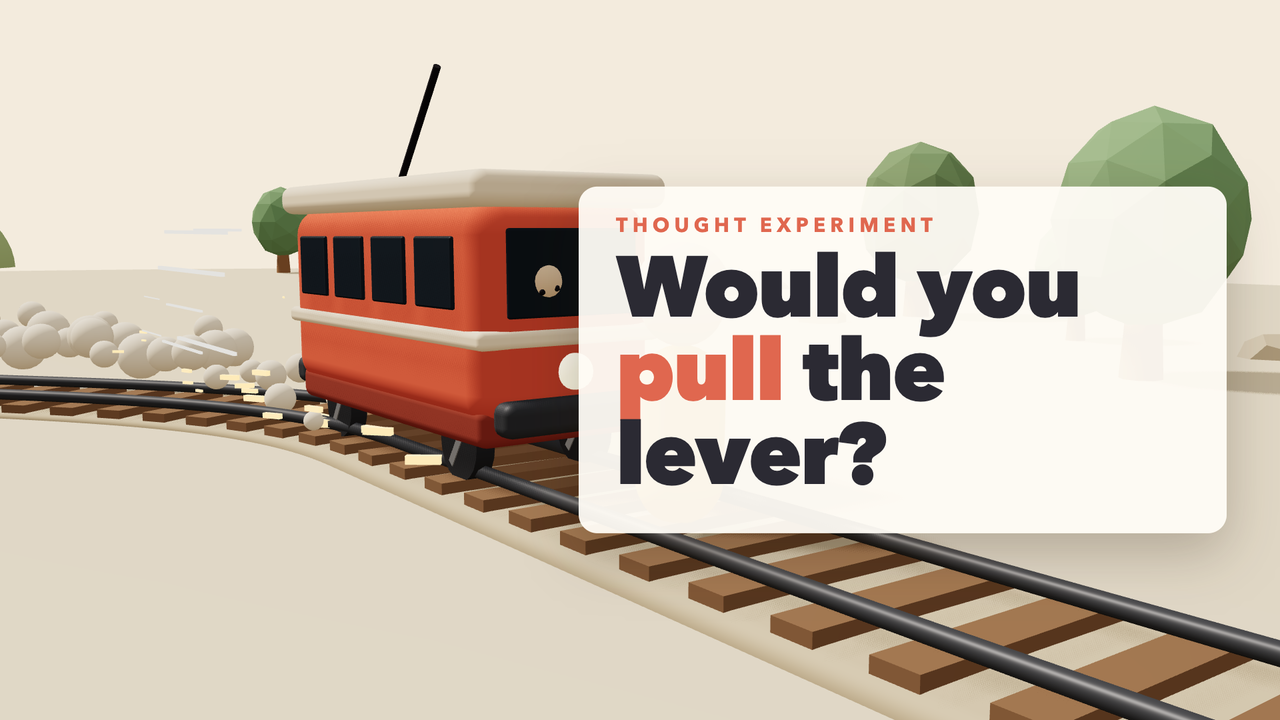
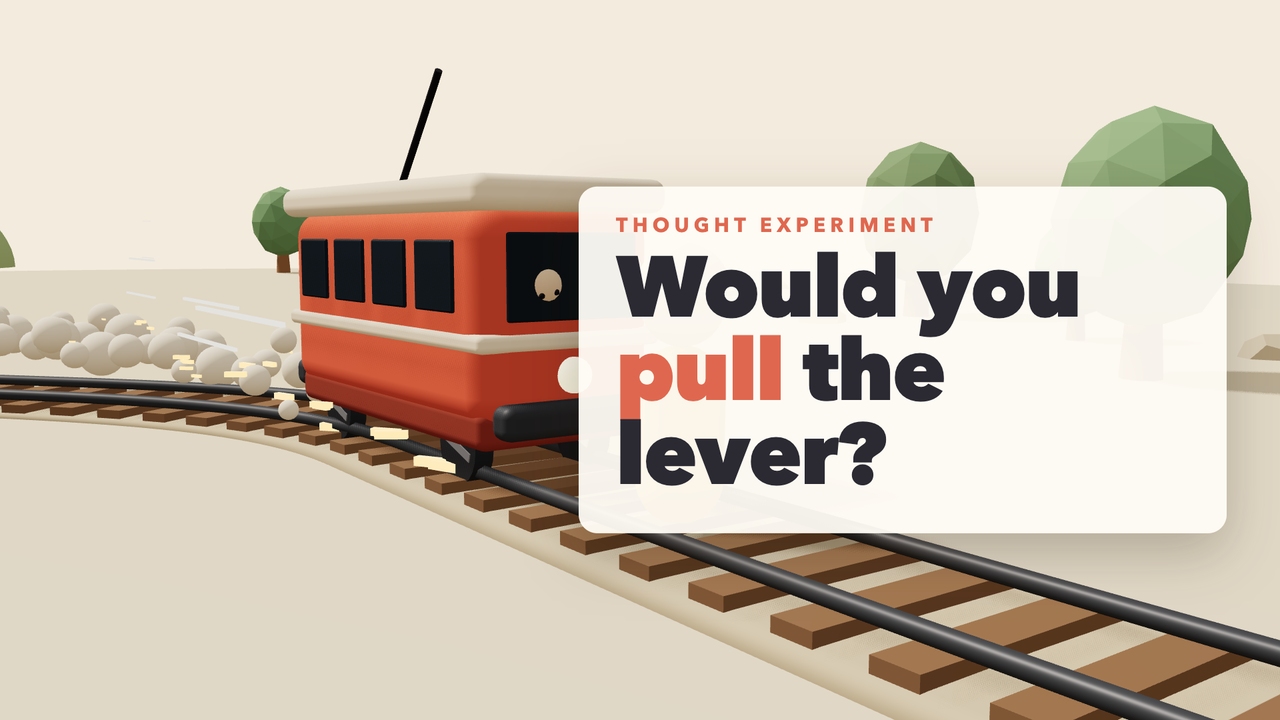
Voice fixes, caption formats, and packaging
- Kokoro pronunciation fixes via pronounce: 'Iff you' (phantom /s/ before sentence-initial 'If'),
  'in its parth' (hissing final /θ/ heard as 'paths')
- Landscape renders clean (upload the .vtt to YouTube); vertical burns in large, short captions
- Caption splitter can no longer recurse on a trailing comma
- Guide and README document caption policy and known voice artifacts

diff --git a/engine/core.js b/engine/core.js
@@ -550,7 +550,7 @@ export function createUI(root, stage) {
 }
 
 // Captions: split narration into readable chunks, timed by character share within each segment.
-export function captionAt(timeline, t) {
+export function captionAt(timeline, t, max = 96) {
   for (const s of timeline.data.segments) {
     if (t < s.start || t > s.end + 0.35) continue;
     // voiced parts (between [[markers]]) carry exact times; otherwise the whole segment is one span
@@ -558,7 +558,7 @@ export function captionAt(timeline, t) {
     for (let i = 0; i < spans.length; i++) {
       const sp = spans[i], next = spans[i + 1];
       if (next && t >= next.start) continue;
-      const chunks = splitCaption(sp.text);
+      const chunks = splitCaption(sp.text, max);
       const total = chunks.reduce((a, c) => a + c.length, 0);
       let acc = sp.start;
       for (const c of chunks) {
@@ -579,10 +579,12 @@ function splitCaption(text, max = 96, min = 28) {
   const out = [];
   const split = (s) => {
     if (s.length <= max) return [s];
-    const mid = s.length / 2;
+    // break at the punctuation (else the space) nearest the middle, never at either end, so both halves shrink
+    const mid = s.length / 2, inner = (i) => i > 0 && i < s.length - 2;
     let best = -1;
-    for (let i = 0; i < s.length; i++) if (/[,;—:]/.test(s[i]) && (best < 0 || Math.abs(i - mid) < Math.abs(best - mid))) best = i;
-    if (best < 0) best = s.lastIndexOf(' ', mid);
+    for (let i = 0; i < s.length; i++) if (/[,;—:]/.test(s[i]) && inner(i) && (best < 0 || Math.abs(i - mid) < Math.abs(best - mid))) best = i;
+    if (best < 0) for (let i = 0; i < s.length; i++) if (s[i] === ' ' && inner(i) && (best < 0 || Math.abs(i - mid) < Math.abs(best - mid))) best = i;
+    if (best < 0) return [s];
     return [...split(s.slice(0, best + 1).trim()), ...split(s.slice(best + 1).trim())];
   };
   for (const s of sentences) out.push(...split(s));

diff --git a/engine/style.css b/engine/style.css
@@ -99,8 +99,8 @@ html, body { margin: 0; background: #1d1c21; overflow: hidden; }
 .vertical .chip { padding: 8px 14px; }
 .vertical .chip small { font-size: 12px; }
 .vertical .card .foot { font-size: 26px; }
-.vertical .caption { bottom: 360px; width: 940px; }
-.vertical .caption span { font-size: 42px; }
+.vertical .caption { bottom: 380px; width: 960px; }
+.vertical .caption span { font-size: 62px; font-weight: 700; line-height: 1.45; padding: 8px 22px; border-radius: 12px; }
 .vertical .note { right: auto; left: 50%; top: auto; bottom: 470px; width: 820px; margin-left: -410px; box-sizing: border-box; }
 .vertical .label { font-size: 27px; padding: 9px 18px; }
 .vertical .rewind .rw { left: 60px; top: 190px; }

diff --git a/engine/player.html b/engine/player.html
@@ -41,9 +41,11 @@ const stage = createStage(document.getElementById('gl'), { width: W, height: H }
 const ui = createUI(document.getElementById('ui'), stage);
 const scene = build({ stage, ui, tl: timeline });
 
+// burned-in captions: on unless ?captions=off; vertical uses shorter chunks at a larger size
+const burnCaptions = q.get('captions') !== 'off';
 function renderAt(t) {
   scene.update(t);
-  ui.caption(captionAt(timeline, t));
+  ui.caption(burnCaptions ? captionAt(timeline, t, vertical ? 52 : 96) : '');
   stage.render();
 }
 window.renderAt = renderAt;

diff --git a/PRODUCTION.md b/PRODUCTION.md
@@ -122,8 +122,11 @@ Target total length: **2½–3 minutes**.
   - Use `palette` in `core.js` and add new roles there, not inline.
 - **People** are peg figures (`makePerson`). Victims wear hard hats when they are workers. Harm is shown with
   physics (knocked over, flung away), never injury.
-- **Typography**: Iowan Old Style for titles and quotes, Avenir Next for UI and captions. Captions are always on (dark
-  pill, bottom centre).
+- **Typography**: Iowan Old Style for titles and quotes, Avenir Next for UI and captions.
+- **Captions**: the **landscape** video ships **clean**. Its captions are the `.vtt` file, uploaded to YouTube as the subtitle
+  track, so viewers can toggle and translate them. The **vertical** video has **large, bold captions burned in** (short
+  one- to two-line chunks) for sound-off viewing on Shorts, Reels and TikTok. Override with `--captions on|off`.
+  Never upload the `.vtt` alongside a video that has captions burned in.
 
 ### 3.2 Overlays (all in `ui`)
 
@@ -286,6 +289,11 @@ Run a transcription, phoneme and pace check over every clip (faster-whisper `sma
 `tools/kokoro-venv/bin/python tools/audit.py . <id>`):
 - Transcription mismatches are often just spelling ("Foote", "Thompson"), so confirm with the **phonemes**
   before changing anything. Fix real problems with `pronounce`.
+- Known Kokoro (bm_fable) artifacts and their fixes, all in `pronounce` so captions are unaffected:
+  - A sentence-initial unstressed **"If"** gets a phantom /s/ ("Sif"). Use `"If you": "Iff you"`, which stresses it.
+  - A sentence-final **/θ/** ("path.") is drawn out into a hiss ("paths"). Use the British vowel and drop the final
+    period in speech: `"in its path.": "in its parth"`.
+  - Check for both by transcribing with word timestamps and looking for 4–10 kHz energy right before or after the word.
 - Target **130–155 wpm** for narration, slower for the hook and the central question (~100–130).
 - Kokoro's `speed` has less effect on long sentences. That is why the engine voices each marker-separated stretch
   on its own. If a segment still measures fast, split it with `[[0.3]]` pauses or give it its own `"speed"`.

diff --git a/README.md b/README.md
@@ -30,9 +30,9 @@ experiments/<id>/          one folder per film: everything needed to rebuild it,
   script.json              narration (with [[cue]] / pause markup), voice, soundtrack, sources, thumbnails, publish metadata
   scene.js                 the 3D film as a pure function of time, built on engine/core.js
   output/
-    <id>.mp4               16:9 film             (not committed; rebuild with render.mjs)
-    <id>-vertical.mp4      9:16 film             (not committed; rebuild with render.mjs)
-    <id>.vtt               captions
+    <id>.mp4               16:9 film, no burned-in captions  (not committed; rebuild with render.mjs)
+    <id>-vertical.mp4      9:16 film, large burned-in captions (not committed)
+    <id>.vtt               captions track: upload it with the 16:9 video on YouTube
     thumbnails/            three 1280×720 thumbnail options
     description.txt        paste-ready description: summary, chapters, video essay, sources, reading, discussion
 build/                     generated cache (narration clips, timeline, stills). Not committed.
